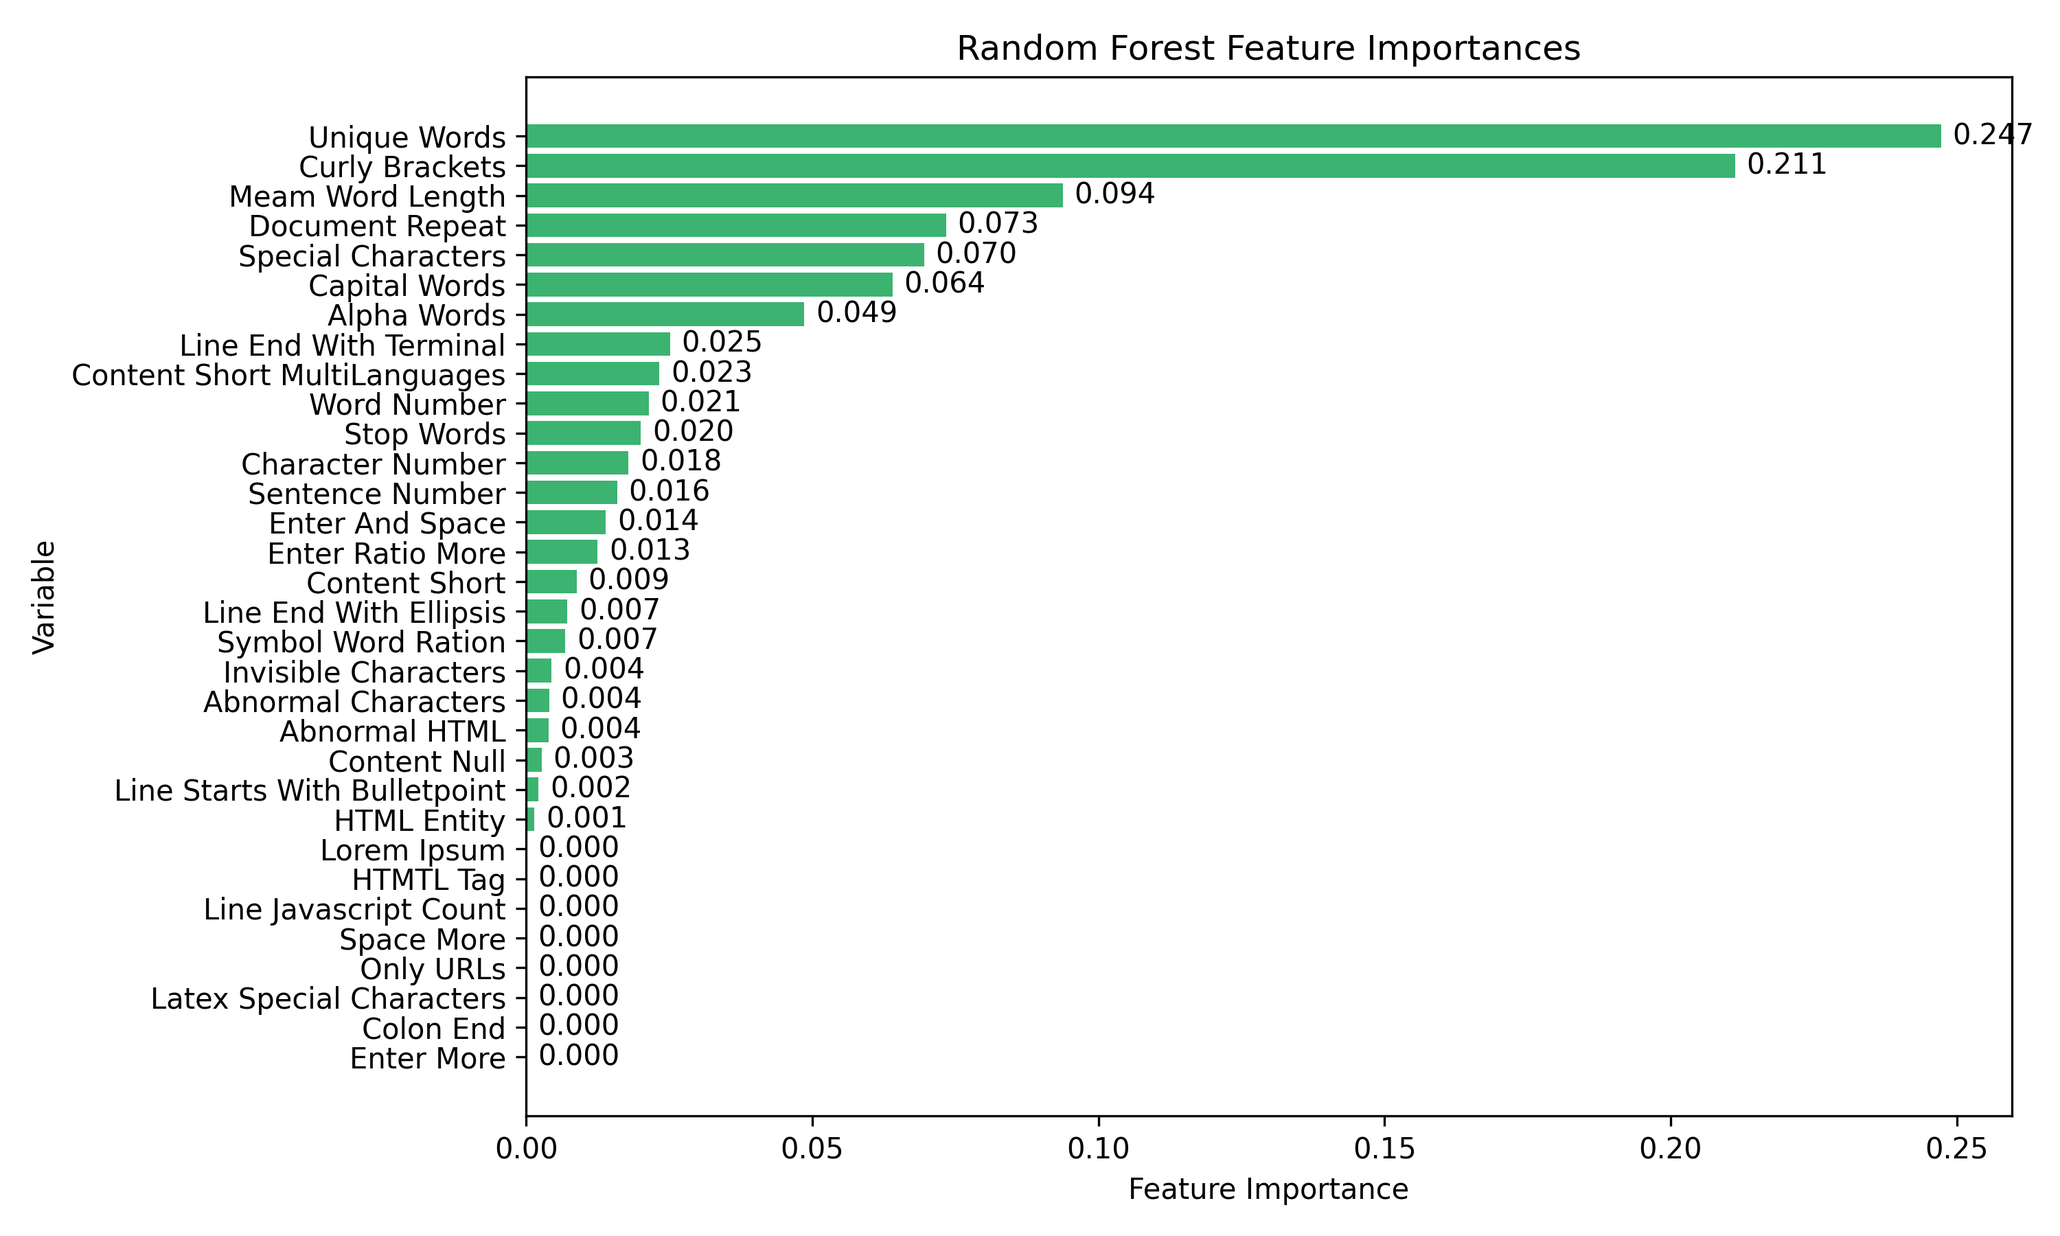
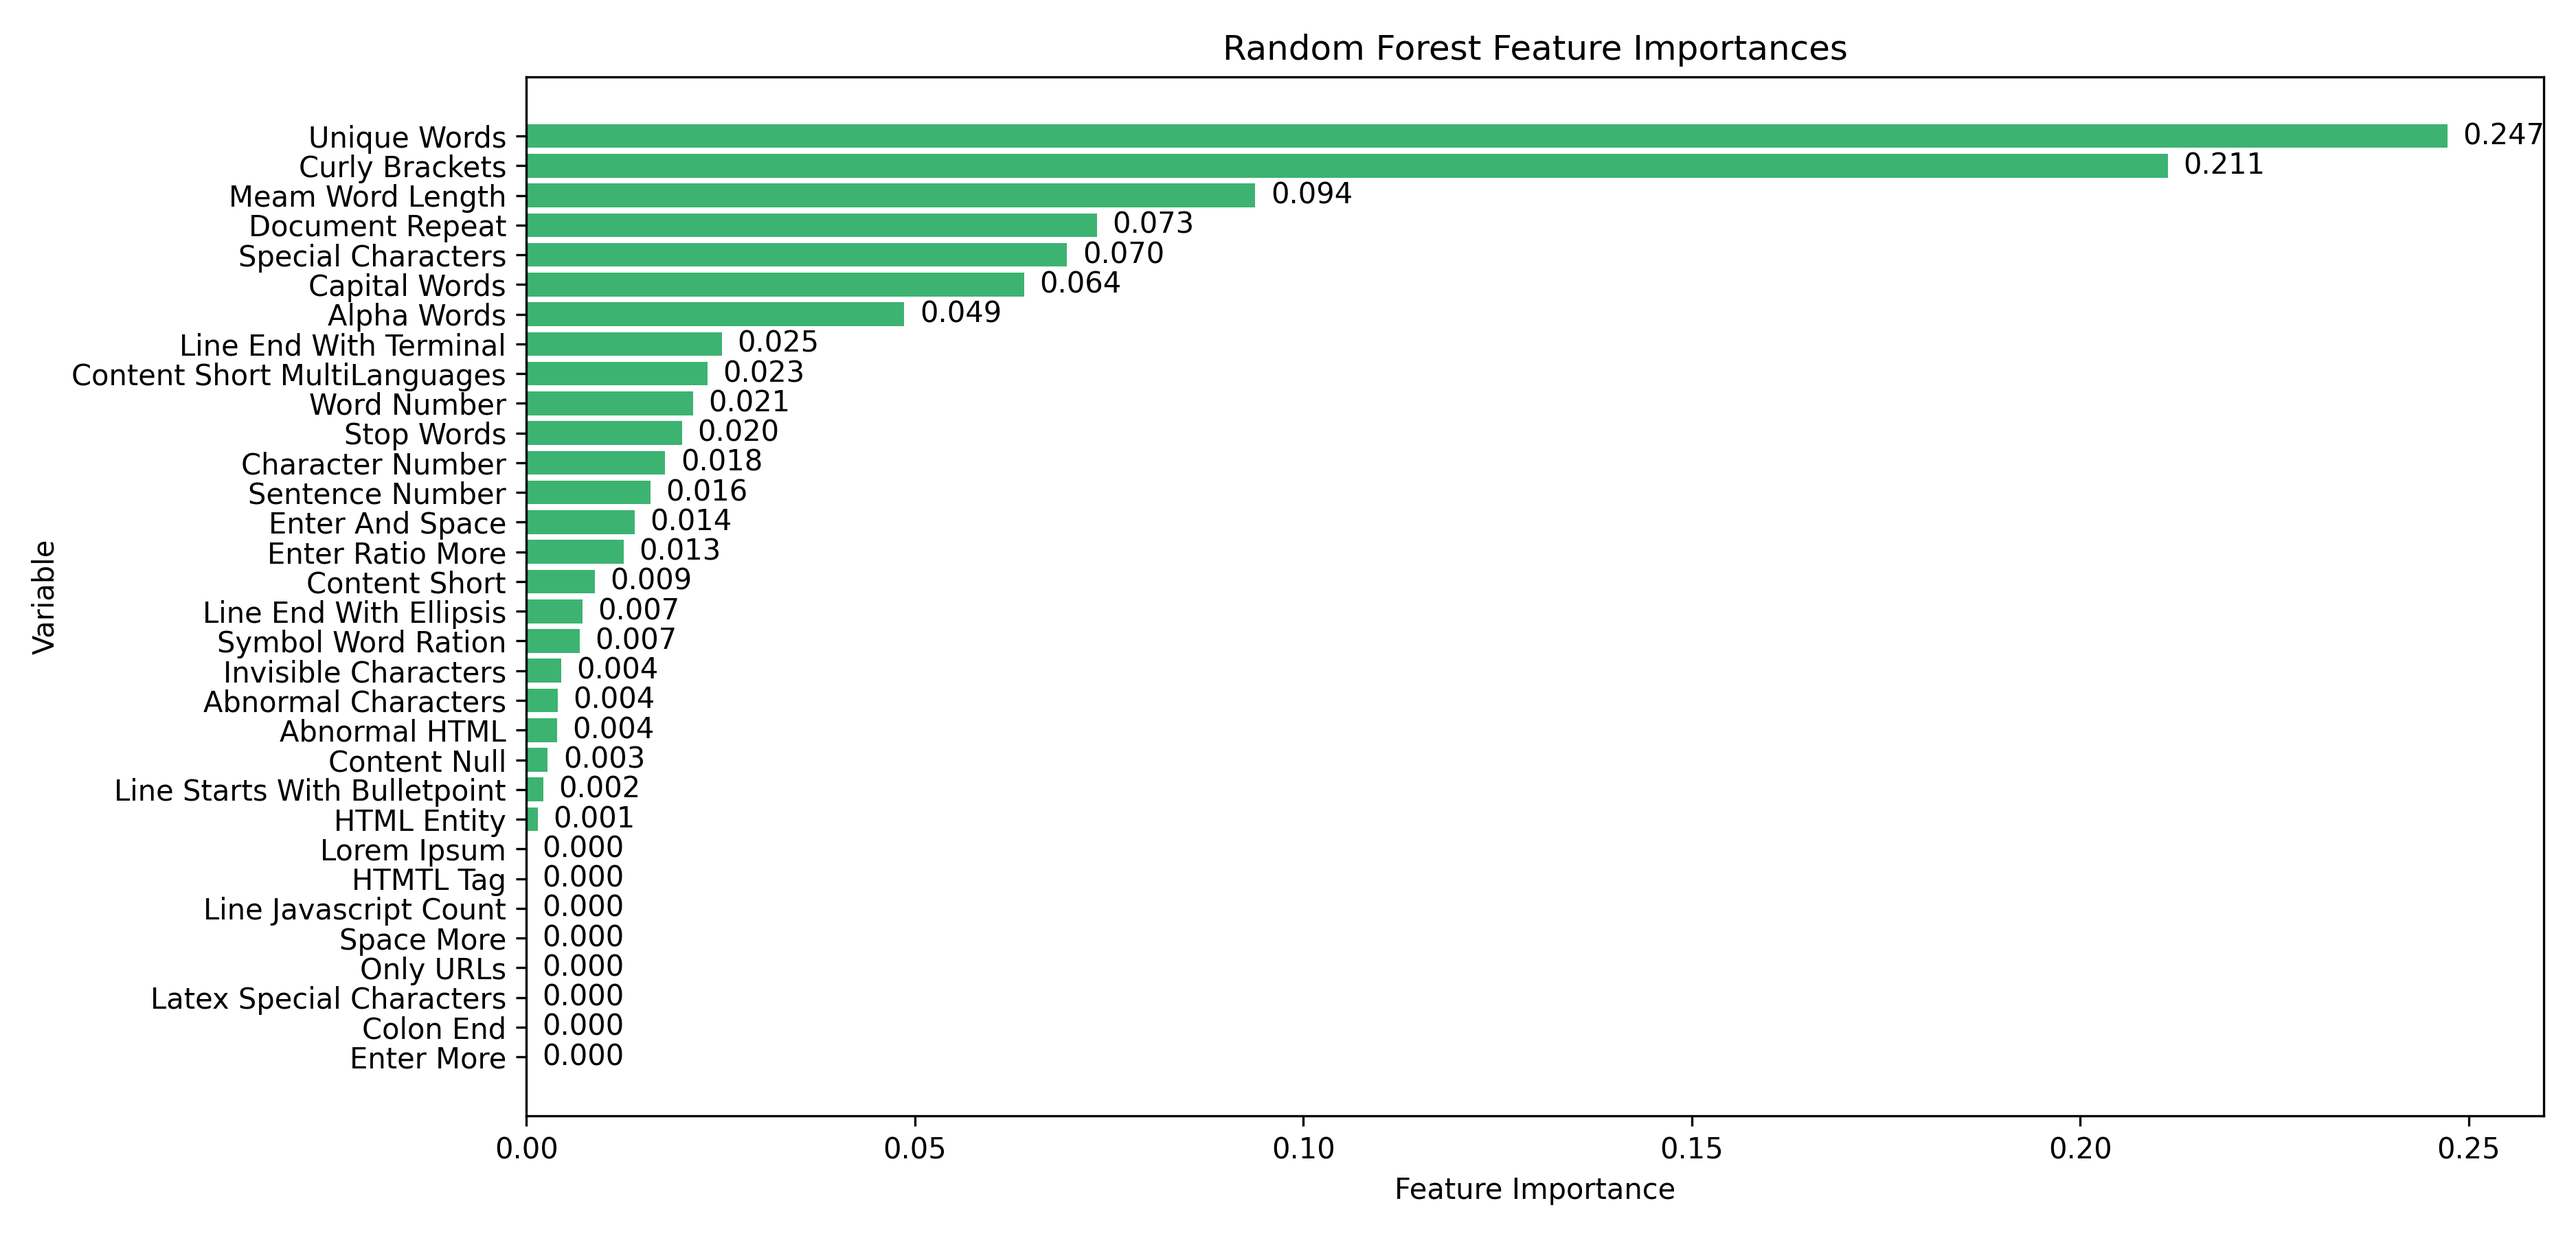
charts widened

diff --git a/Dingo-experiments/LR to manual annotations/LR+RF script.py b/Dingo-experiments/LR to manual annotations/LR+RF script.py
@@ -74,7 +74,7 @@ indices = np.argsort(coefficients)
 sorted_features = [features[i] for i in indices]
 sorted_coefficients = coefficients[indices]
 
-plt.figure(figsize=(10, 6))
+plt.figure(figsize=(12.5, 6))
 bars = plt.barh(sorted_features, sorted_coefficients, color=['tomato' if c < 0 else 'skyblue' for c in sorted_coefficients])
 plt.axvline(0, color='black', linewidth=0.8)
 plt.xlabel("Coefficient Value")
@@ -104,7 +104,7 @@ indices = np.argsort(rf_importances)[::-1]
 sorted_features = [features[i] for i in indices]
 sorted_importances = rf_importances[indices]
 
-plt.figure(figsize=(10, 6))
+plt.figure(figsize=(12.5, 6))
 bars = plt.barh(sorted_features[::-1], sorted_importances[::-1], color='mediumseagreen')
 plt.xlabel("Feature Importance")
 plt.ylabel("Variable")
